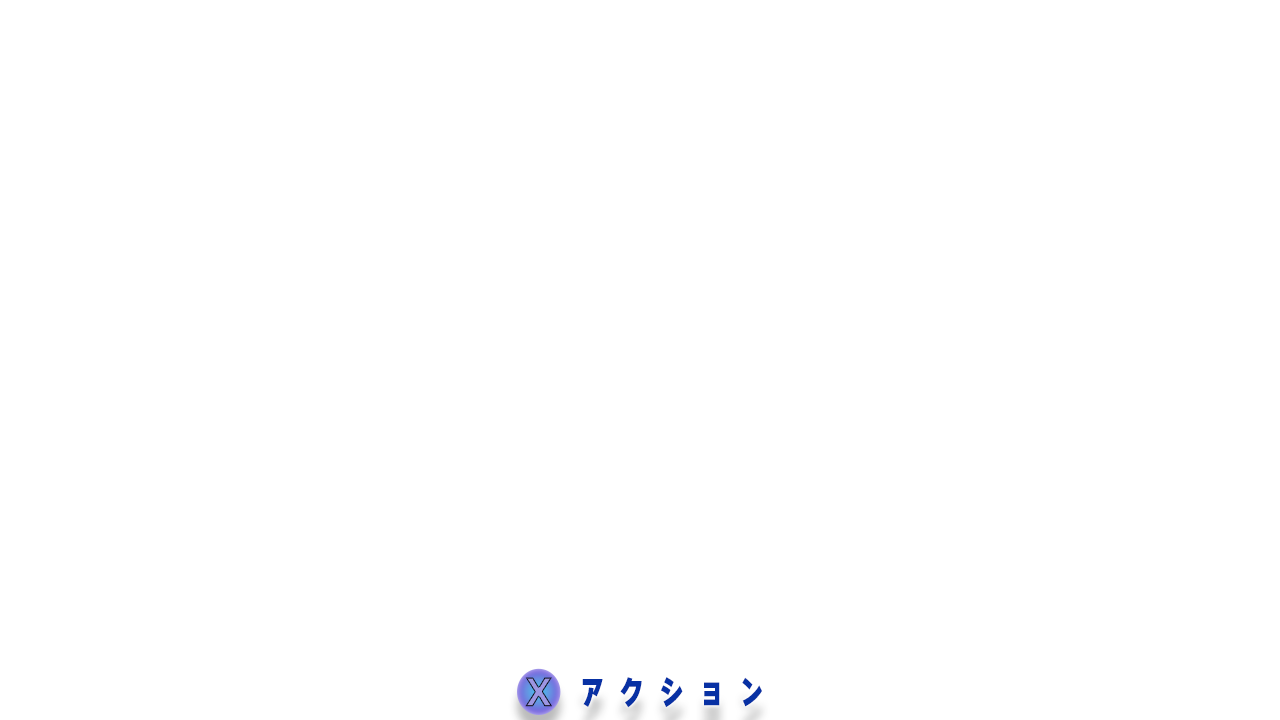
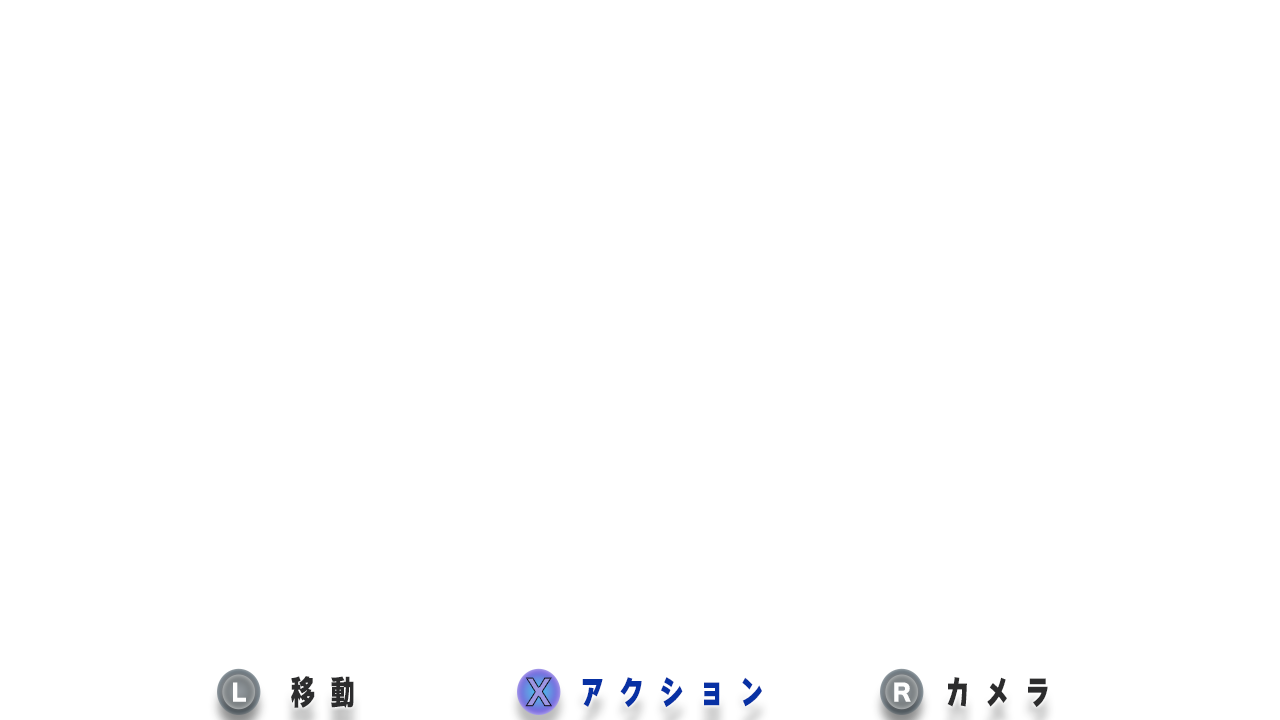
チュートリアル完成

Changed region(s): [[0.1562, 0.9167, 0.2812, 1.0], [0.6875, 0.9167, 0.8438, 1.0]]

diff --git a/DirectXGame/scene/GameScene.cpp b/DirectXGame/scene/GameScene.cpp
@@ -148,11 +148,11 @@ void GameScene::Initialize() {
 	//チュートリアル
 	tutorial_->TutorialInitialize();
 	//強化画面用
-	PowerUpTutorialHandle_[0] = TextureManager::Load("Tutorial0.png");
+	PowerUpTutorialHandle_[0] = TextureManager::Load("Tutorial4.png");
 	PowerUpTutorialSprite_[0] = Sprite::Create(
 	    PowerUpTutorialHandle_[0], {0.0f, 0.0f}, {1.0f, 1.0f, 1.0f, 1.0f}, {0.0f, 0.0f});
 
-	PowerUpTutorialHandle_[1] = TextureManager::Load("Tutorial1.png");
+	PowerUpTutorialHandle_[1] = TextureManager::Load("Tutorial5.png");
 	PowerUpTutorialSprite_[1] = Sprite::Create(
 	    PowerUpTutorialHandle_[1], {0.0f, 0.0f}, {1.0f, 1.0f, 1.0f, 1.0f}, {0.0f, 0.0f});
 
@@ -311,35 +311,23 @@ void GameScene::Update() {
 		} else {
 			if (Input::GetInstance()->GetJoystickState(0, joyState)) {
 				ButtonCoolDown_--;
-				if (joyState.Gamepad.wButtons & XINPUT_GAMEPAD_A && isPowerUpTutorial[0]==false) {
-					if (isPowerUpTutorial[0] == true && isPowerUpTutorial[1] == false) {
-						bommEnhance_->Update(stoneCount_, goldCount_, jushiCount_, shellCount_);
-					}
-					if (ButtonCoolDown_ <= 0) {
-						isPowerUpTutorial[0] = true;
-						isPowerUpTutorial[1] = false;
-						ButtonCoolDown_ = 60;
-					}
-					stoneCount_ = 0;
-					goldCount_ = 0;
-					jushiCount_ = 0;
-					shellCount_ = 0;
-				}
-				if (isPowerUpTutorial[0] == true) {
+				/*if (isPowerUpTutorial[0] == true || isPowerUpTutorial[1] == true) {
+					bommEnhance_->Update(stoneCount_, goldCount_, jushiCount_, shellCount_);
+				}*/
+				stoneCount_ = 2;
+				if (isPowerUpTutorial[1] == false) {
+					isPowerUpTutorial[0] = true;
 					if (joyState.Gamepad.wButtons & XINPUT_GAMEPAD_A) {
 						if (ButtonCoolDown_ <= 0) {
 							isPowerUpTutorial[1] = true;
 							isPowerUpTutorial[0] = false;
-							ButtonCoolDown_ = 60;
-							if (joyState.Gamepad.wButtons & XINPUT_GAMEPAD_A) {
-								isTutorialSceneEnd_ = true;	
-							}
 						}
-
+						ButtonCoolDown_ = 60;
 					}
 				}
-				if (isPowerUpTutorial[1]==true) {
-					
+				if (joyState.Gamepad.wButtons & XINPUT_GAMEPAD_A && isPowerUpTutorial[1] == true &&
+				    ButtonCoolDown_ <= 0) {
+					isTutorialSceneEnd_ = true;
 				}
 			}
 		}
@@ -796,6 +784,10 @@ void GameScene::SceneReset() {
 	clearFlag = false;
 	fadeColor_.w = 0.0f;
 	isFade = false;
+	stoneCount_ = 0;
+	goldCount_ = 0;
+	jushiCount_ = 0;
+	shellCount_ = 0;
 }
 
 void GameScene::HouseCollision() {
